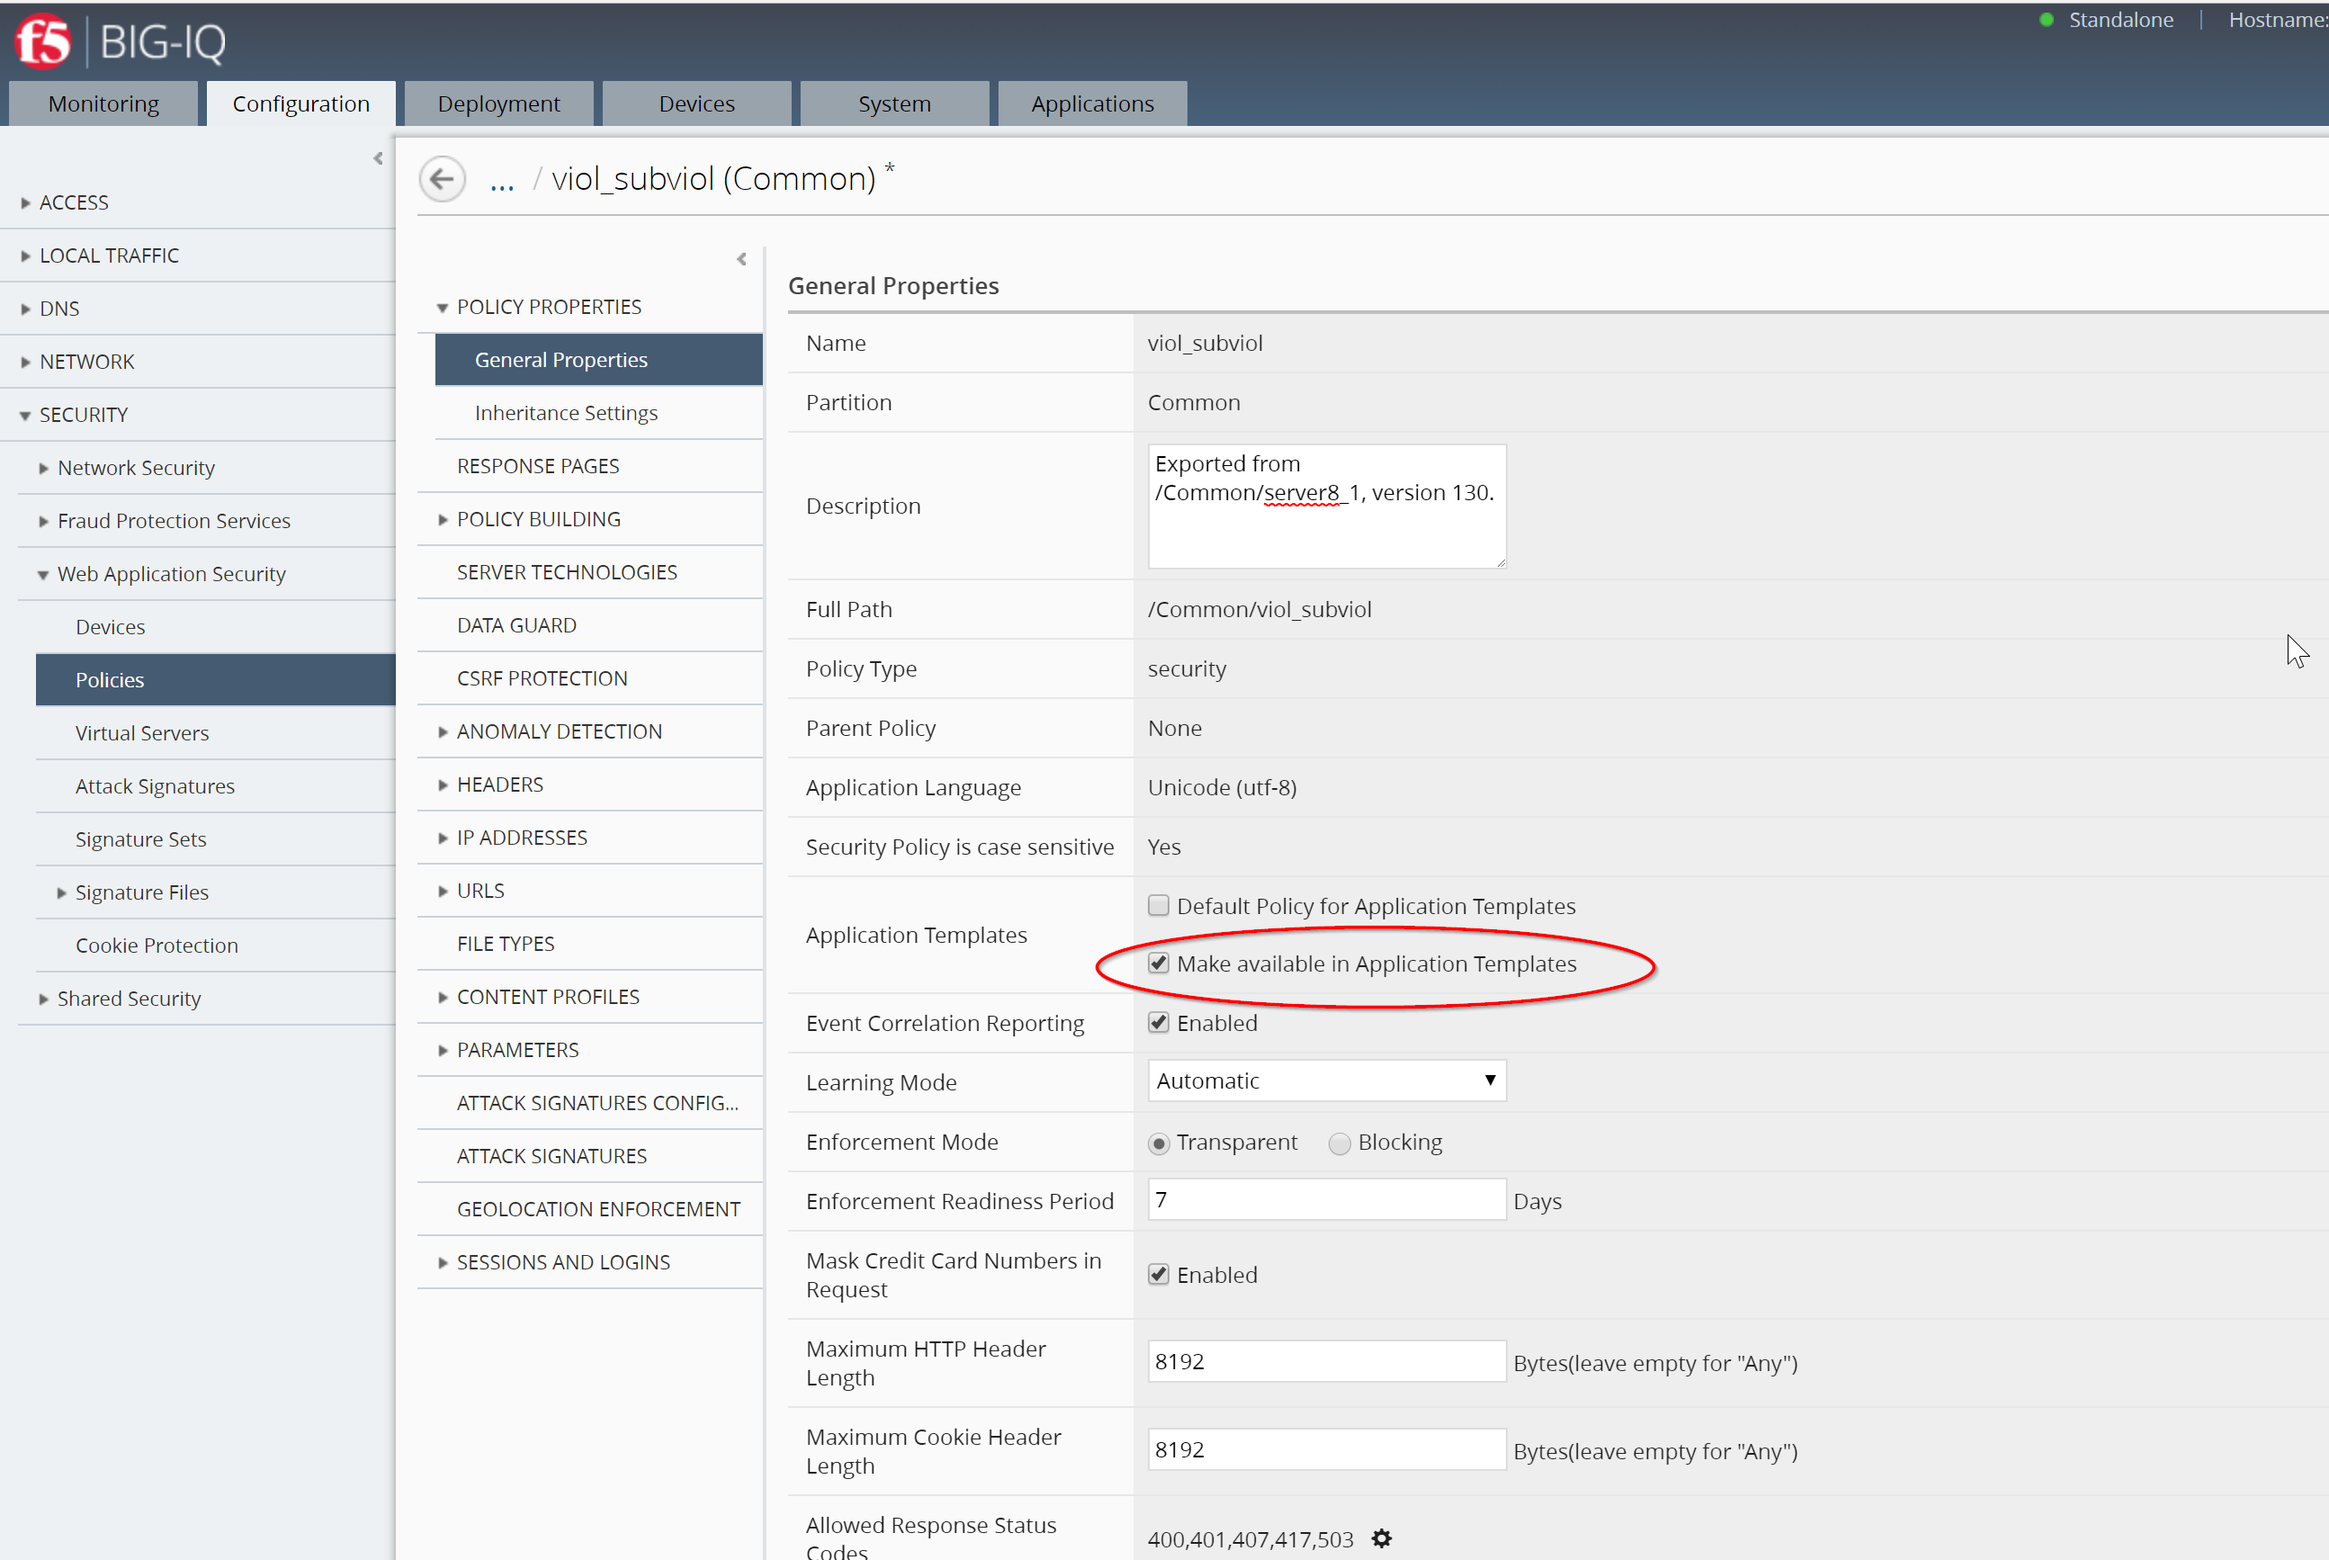
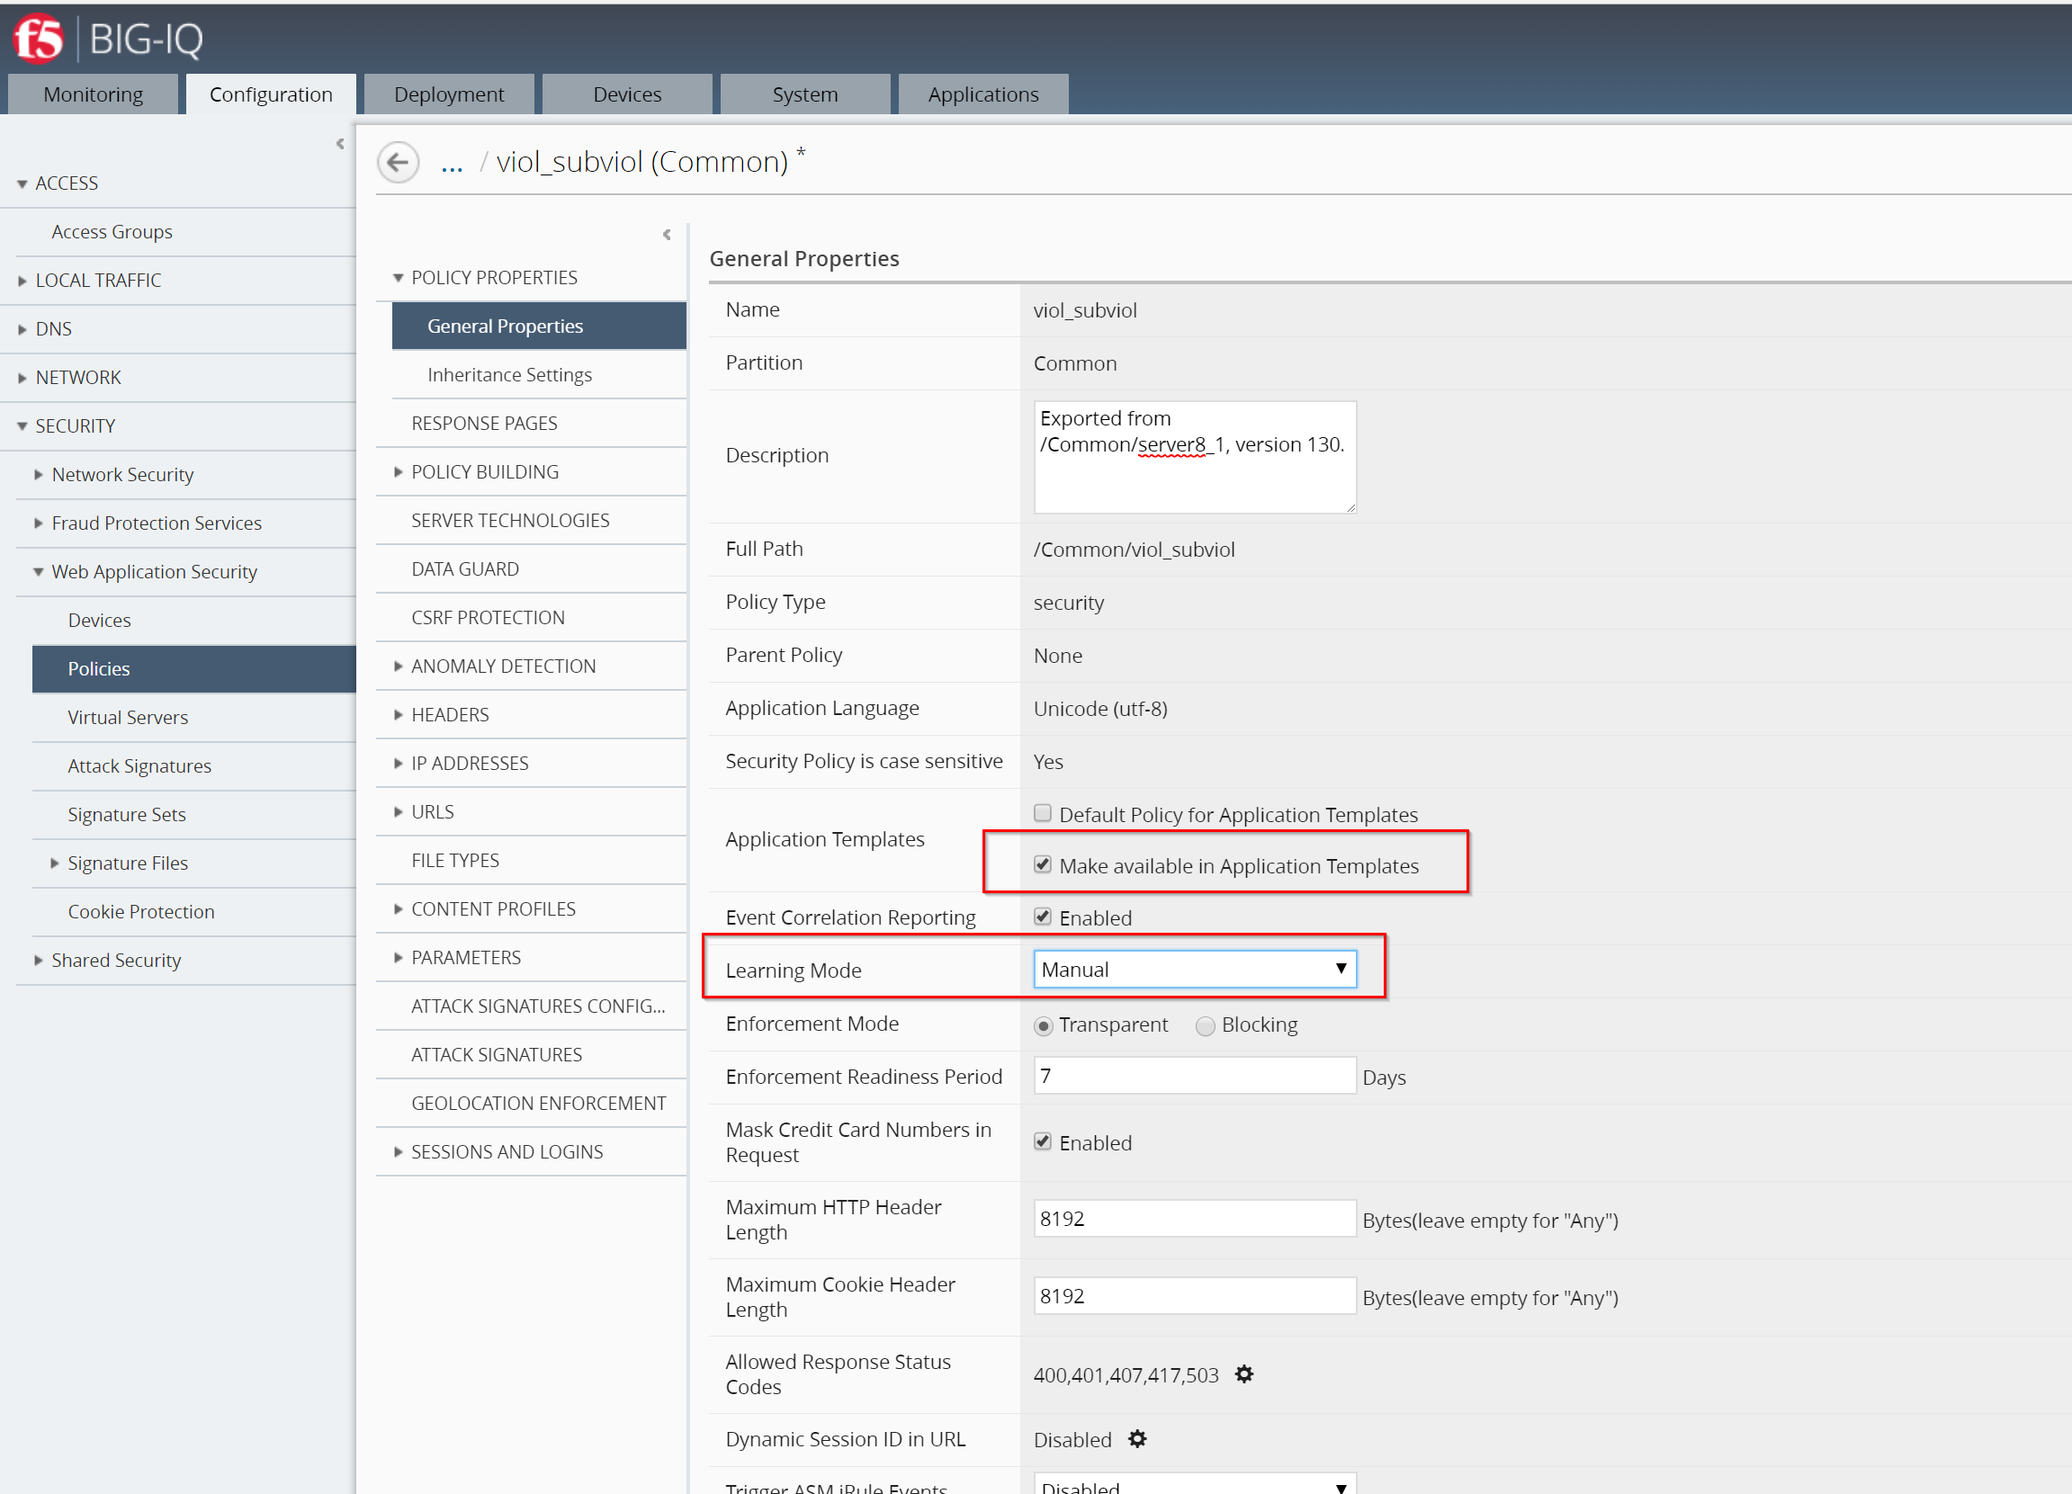
Class 1 update 5/2

diff --git a/docs/source/class1/module2/lab3.rst b/docs/source/class1/module2/lab3.rst
@@ -4,14 +4,29 @@ Connect as **Paula** to create a new application, go to *Applications* > *APPLIC
 
 Type in a Name for the application you are creating.
 
-Type the Prefix that you want the system to use to make certain that all of the objects created when you deploy an application are uniquely named.
-If you want to append this prefix to the names of the objects that this application creates, keep Apply Prefix To Names selected. Appending the prefix to the objects in this application makes these objects easier to find using search filters.
+- Application Name: ``site18.example.com``
 
 To help identify this application when you want to use it later, in the Description field, type in a brief description for the application you are creating.
 
-For Device, select the name of the device you want to deploy this application to.
+- Description: ``My First Application on F5 Cloud Edition``
 
-- Application Name: ``site18.example.com``
+Type  the domain of your application (this will be used by the ASM policy to enforce the policy on the domain later on)
+
+- Domain Names: ``example.com``
+
+For Device, select the name of the device you want to deploy this application to. (if the HTTP statistics are not enabled, they can be enabled later on after the application is deployed)
+
+- BIG-IP: Select ``BOS-vBIGIP02.termmarc.com`` and check ``Collect HTTP Statistics``
+
+.. image:: ../pictures/module2/img_module2_lab3_1.png
+  :align: center
+  :scale: 50%
+
+Determine the objects that you want to deploy in this application.
+To omit any of the objects defined in this template, click the  (X) icon that corresponds to that object.
+To create additional copies of any of the objects defined in this template, click the  (+) icon that corresponds to that object.
+
+In the example, fill out the Server's IP addresses/ports (nodes) and virtual servers names, IPs and ports.
 
 - Pool Members: ``10.1.20.118`` and ``10.1.20.119``
 - Service Port: ``80``
@@ -24,11 +39,48 @@ For Device, select the name of the device you want to deploy this application to
 - Destination Address: ``10.1.10.118``
 - Service Port: ``80``
 
+It is good practice to type the Prefix that you want the system to use to make certain that all of the objects created when you deploy an application are uniquely named.
+If you want to append this prefix to the names of the objects that this application creates, keep Apply Prefix To Names selected.
+Appending the prefix to the objects in this application makes these objects easier to find using search filters.
 
-Determine the objects that you want to deploy in this application.
-To omit any of the objects defined in this template, click the  (X) icon that corresponds to that object.
 
-To create additional copies of any of the objects defined in this template, click the  (+) icon that corresponds to that object.
+.. image:: ../pictures/module2/img_module2_lab3_2.png
+  :align: center
+  :scale: 50%
 
-For each object that you decide to include in the application, revise any of the settings that you want to change.
-Note: You can select a value for an object that you are creating in this application that is also created as part of this application. That is, if your application template contains a pool member and a node, in most cases you want to use the node you are creating in the application for that pool member in the application. For example a template could define a pool MyPool1 and a node 45.54.45.54. To specify the application-created object, you select the value that is prefixed with a pound sign (#) when you select the value for that node. (That option would appear as #45.54.45.54 in the example cited here.)
+Then Click on Create (bottom right of the window).
+The Application is deployed.
+
+.. image:: ../pictures/module2/img_module2_lab3_3.png
+  :align: center
+  :scale: 50%
+
+.. note:: In case the Application fails, Larry can go to Applications > Application Deployments
+
+In Paula's Dashboard, she can see her Application.
+
+.. image:: ../pictures/module2/img_module2_lab3_4.png
+  :align: center
+  :scale: 50%
+
+Click on the Application and check the details (alarms, security enabled, configuration, ...)
+
+.. image:: ../pictures/module2/img_module2_lab3_5.png
+  :align: center
+  :scale: 50%
+
+.. image:: ../pictures/module2/img_module2_lab3_6.png
+  :align: center
+  :scale: 50%
+
+.. note:: A traffic generator located on the *Ubuntu Lamp Server, LDAP and DHCP* server, is sending good traffic every minutes to the virtual servers.
+
+Paula can update Application Health Alert Rules by clicking on the Health Icon on the top left of the Application Dashboard.
+
+.. image:: ../pictures/module2/img_module2_lab3_7.png
+  :align: center
+  :scale: 50%
+
+.. image:: ../pictures/module2/img_module2_lab3_8.png
+  :align: center
+  :scale: 50%

diff --git a/docs/source/class1/module2/lab4.rst b/docs/source/class1/module2/lab4.rst
@@ -4,28 +4,41 @@ Lab 2.4: Security workflows
 - larry enforing the policy, learning etc ...
 - paul turn blocking on the app
 
+Connect as **Larry**
+
+1. Larry check the Firewall policy
+
+Monitoring > REPORTS > Security > Network Security > Rule statistics
+
+.. image:: ../pictures/module2/img_module2_lab4_1.png
+  :align: center
+  :scale: 50%
+
+2. Larry check and accept the Learning, also inform Paula
+
+Configuration > SECURITY > Web Application Security > Policies
+
+
 Connect as **Paula**
-=> learning
-=> Paula enforce policy
-=> show ASM type of attacks (SQL injection)
-=> show DDOS type of attacks
-=> show basic firewall
+
+1. Paula enforce the policy
+
+.. image:: ../pictures/module2/img_module2_lab4_4.png
+  :align: center
+  :scale: 50%
+
+.. image:: ../pictures/module2/img_module2_lab4_5.png
+  :align: center
+  :scale: 50%
+
+2. Let's generate some bad traffic, connect on the *Ubuntu Lamp Server, LDAP and DHCP* server and launch the following script:
+
+``# /home/f5/scripts/generate_bad_traffic.sh``
+
+3. In Application Dashboard, navigate to the Security Statistics.
 
 Connect as **Larry**
 
-If this application includes a client-SSL profile, and the Ciphers are editable, there are three potential cipher settings you can configure.
-You can inherit the settings from the parent profile, you can specify a cipher of your own, or you can select a cipher group.
+1. Check ASM type of attacks
 
-To inherit the cipher settings from the parent profile:
-For Ciphers, select Inherit.
-For Cipher Group Override as None, select Inherit.
-For Cipher Group, select Inherit.
-To specify a cipher for this application:
-For Ciphers, select Other, and then type the cipher text in the adjacent field.
-For Cipher Group Override as None, select Other and None.
-For Cipher Group, select Inherit.
-To specify a cipher group for this application:
-For Ciphers, select Other, and then leave the adjacent field blank.
-For Cipher Group Override as None, select Inherit.
-For Cipher Group, select Other, and then select the group from the adjacent list.
-When you have configured the objects that you want to include in this application, click Create.
+Monitoring > EVENTS > Web Application Security > Events Logs > Events

diff --git a/docs/source/class1/module1/lab1.rst b/docs/source/class1/module1/lab1.rst
@@ -1,5 +1,5 @@
-Lab 1.1: Personas
------------------
+Lab 1: Creation of each personas in BIG-IQ
+--------------------------------------------
 
 We will be using 4 main personas for this lab:
 
@@ -26,3 +26,52 @@ Paul is in Paula's team and will manage only a subset of applications.
 **David** will try automating whenever possible, to enable efficiency and ability to solve problems at scale.
 Automate common network patterns that the other teams can consume.
 Automate existing environment management and troubleshooting tasks.
+
+Connect to your BIG-IQ as admin and go to : *System* > *Users Management* > *Users*
+and click on *Add*
+
+**1. Marco: Full Administrator**
+
+- *User Name* = Marco
+- *Full Name* = Full Administrator
+- *Password* = marco
+- *Role* = Administrator Role
+
+Click on *Save & Close*
+
+**2. David: Super-NetOps**
+
+Click on *Add*
+
+- *User Name* = David
+- *Full Name* = Super-NetOps
+- *Password* = david
+- *Role* = Application Manager
+
+Click on *Save & Close*
+
+**3. Larry: Application Security Manager**
+
+Click on *Add*
+
+- *User Name* = Larry
+- *Full Name* = Application Security Manager
+- *Password* = larry
+- *Role* = Security Manager
+
+Click on *Save & Close*
+
+**4. Paula: Application Manager**
+
+Click on *Add*
+
+- *User Name* = Paula
+- *Full Name* = Application Manager
+- *Password* = paula
+- *Role* = Application Manager
+
+Click on *Save & Close*
+
+.. image:: ../pictures/module1/img_module1_lab2_1.png
+  :align: center
+  :scale: 50%

diff --git a/docs/source/class1/module2/lab2.rst b/docs/source/class1/module2/lab2.rst
@@ -20,14 +20,14 @@ The policy is imported in Transparent mode.
   :align: center
   :scale: 50%
 
-Edit the Policy and make available in Application Templates.
+Edit the Policy, switch to ``Manual`` Learning Mode and ``Make available in Application Templates``. Save & Close.
 
 .. image:: ../pictures/module2/img_module2_lab2_4.png
   :align: center
   :scale: 50%
 
-Create the AFM Policy, go to *Configuration* > *SECURITY* > *Network Security* > *Firewall Policies*, create.
-Then enter the name of your policy: ``f5-afm-policy1``. Make sure to check the box ``Make available in Application Templates``. Save & Close.
+Create the AFM Policy, go to *Configuration* > *SECURITY* > *Network Security* > *Firewall Policies*, Create.
+Then enter the name of your policy: ``f5-afm-policy1``. Make sure the box ``Make available in Application Templates`` is checked. Save & Close.
 
 .. image:: ../pictures/module2/img_module2_lab2_5.png
   :align: center
